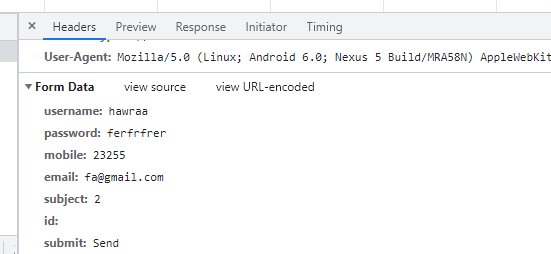
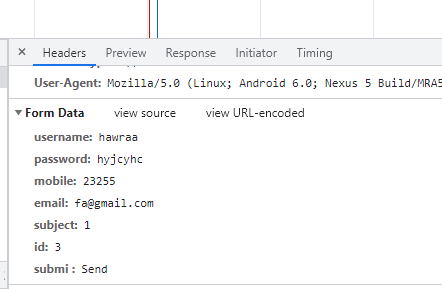
all_Tasks

Changed region(s): [[0.0, 0.0, 1.0, 1.0], [0.0588, 0.8268, 0.1471, 0.8819]]

diff --git a/Task8/index.html b/Task8/index.html
@@ -30,7 +30,7 @@
         <input type="radio" id="Linux" name="OS" value="Linux">
         <label for="linux">Linux</label><br>
         <hr>
-        <input type="hidden" id="1" name="id">
+        <input type="hidden" id="1" name="id" value="5">
         <input style="background:darkturquoise" type="submit" value="Send">
     </form>
 </body>

diff --git a/Task7/index.html b/Task7/index.html
@@ -50,7 +50,7 @@
             </select>
         </div>
         <hr>
-        <input type="hidden" name="id" id="3">
+        <input type="hidden" name="id" value="3" id="3">
         <input style="background:darkturquoise" type="submit" name="submit" value="Send">
     </form>
 </body>
